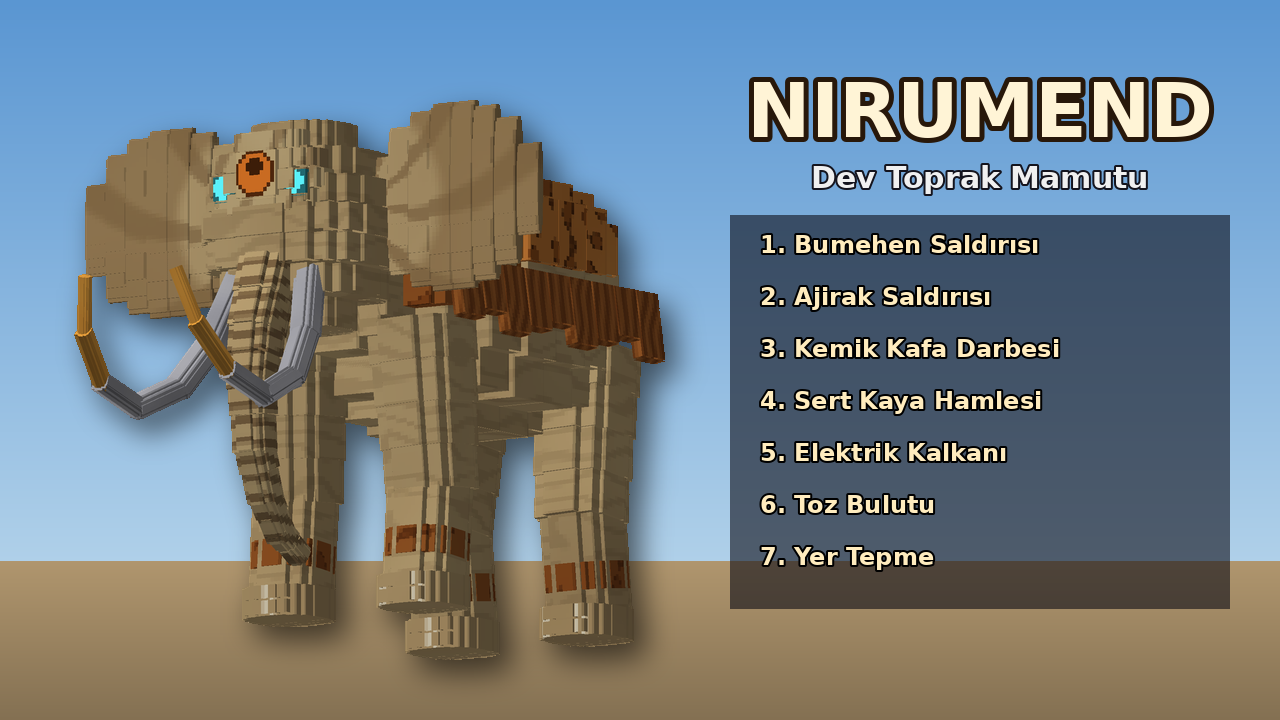
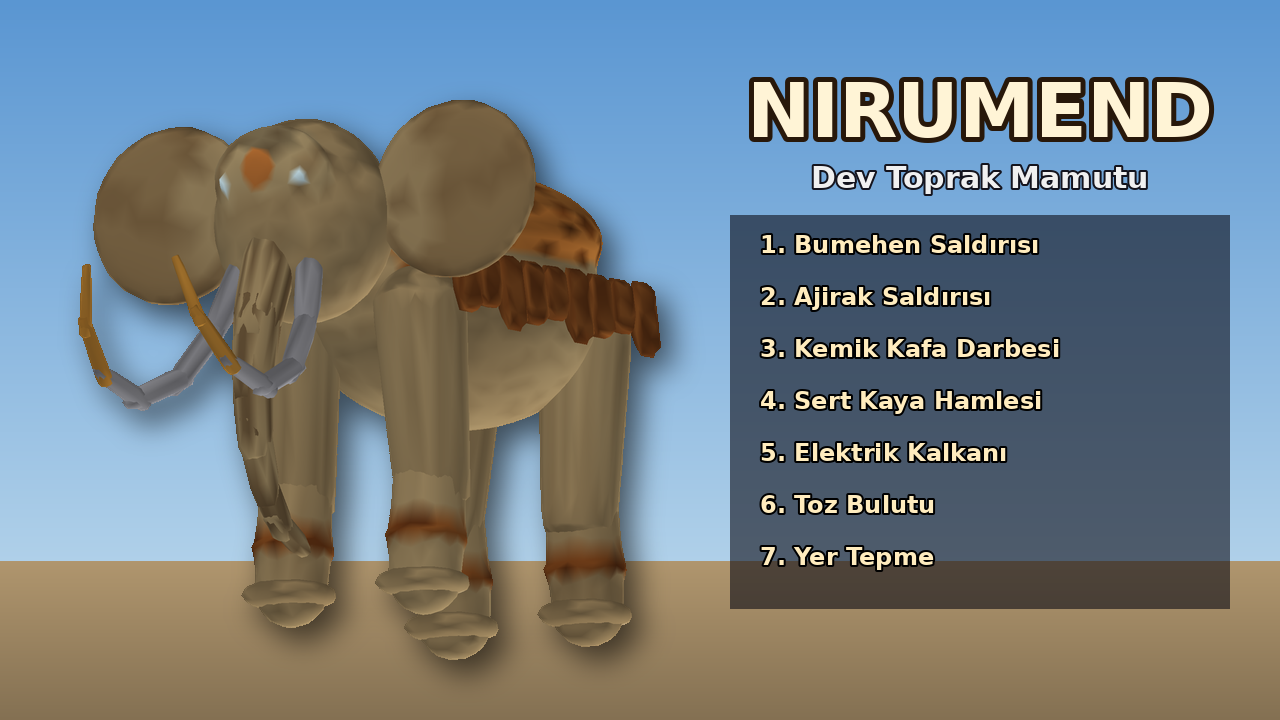
Cille: promo images rendered from the smooth meshes
Claude-Session: https://claude.ai/code/session_013CxabgQ3MPHCzBHuy99cPM

diff --git a/cille/gen/promo.py b/cille/gen/promo.py
@@ -12,11 +12,10 @@ KEY = (255, 0, 255)
 
 
 def cut(mod, anim=None, t=0.0, yaw=-35, pitch=8, size=900):
+    import smooth, tempfile
     K = importlib.import_module(mod)
-    K.M.pack()
-    tex, glow = K.P.run().images()
-    pose = K.A[anim].sample(t) if anim else None
-    im = render(K.M, tex, pose, yaw=yaw, pitch=pitch, size=size, bg=KEY, extra_glow=glow).convert('RGBA')
+    bones, _ = smooth.build(K.M, K.P, os.path.join(tempfile.gettempdir(), mod + '_promo.cmsh'))
+    im = smooth.preview(K.M, bones, size=size, yaw=yaw, pitch=pitch, bg=KEY).convert('RGBA')
     a = np.asarray(im).copy()
     m = (a[..., 0] == 255) & (a[..., 1] == 0) & (a[..., 2] == 255)
     a[m, 3] = 0
